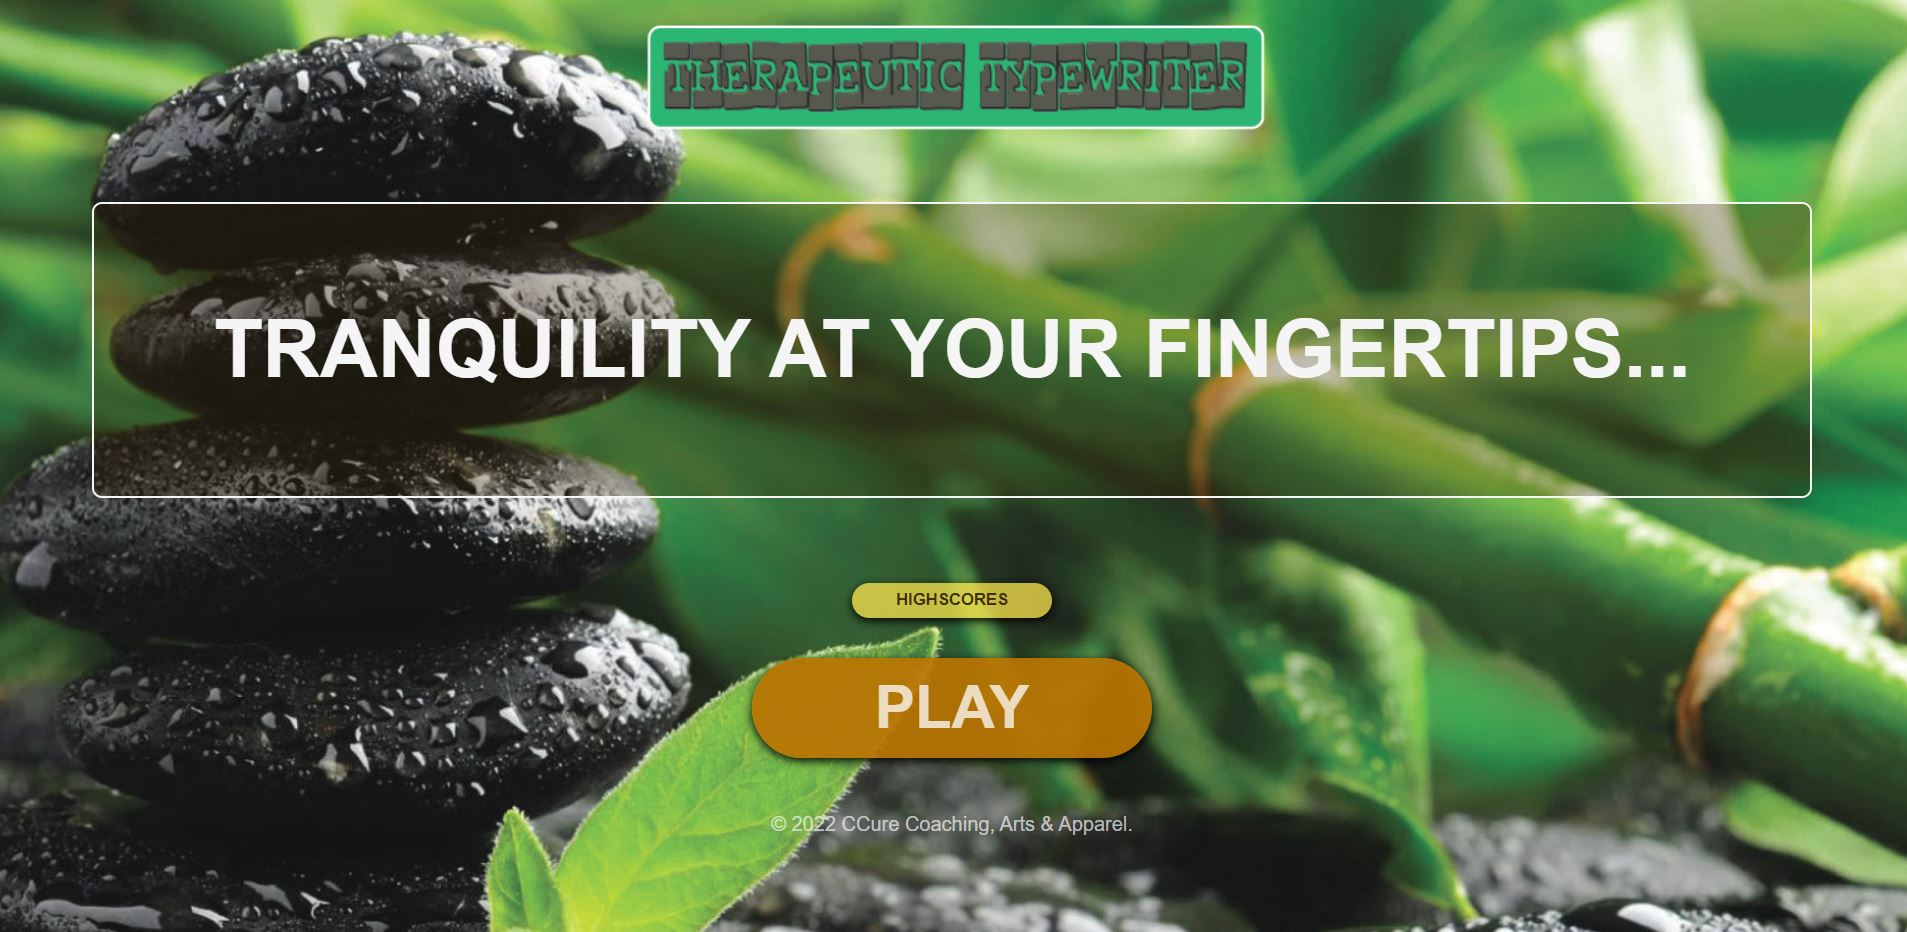
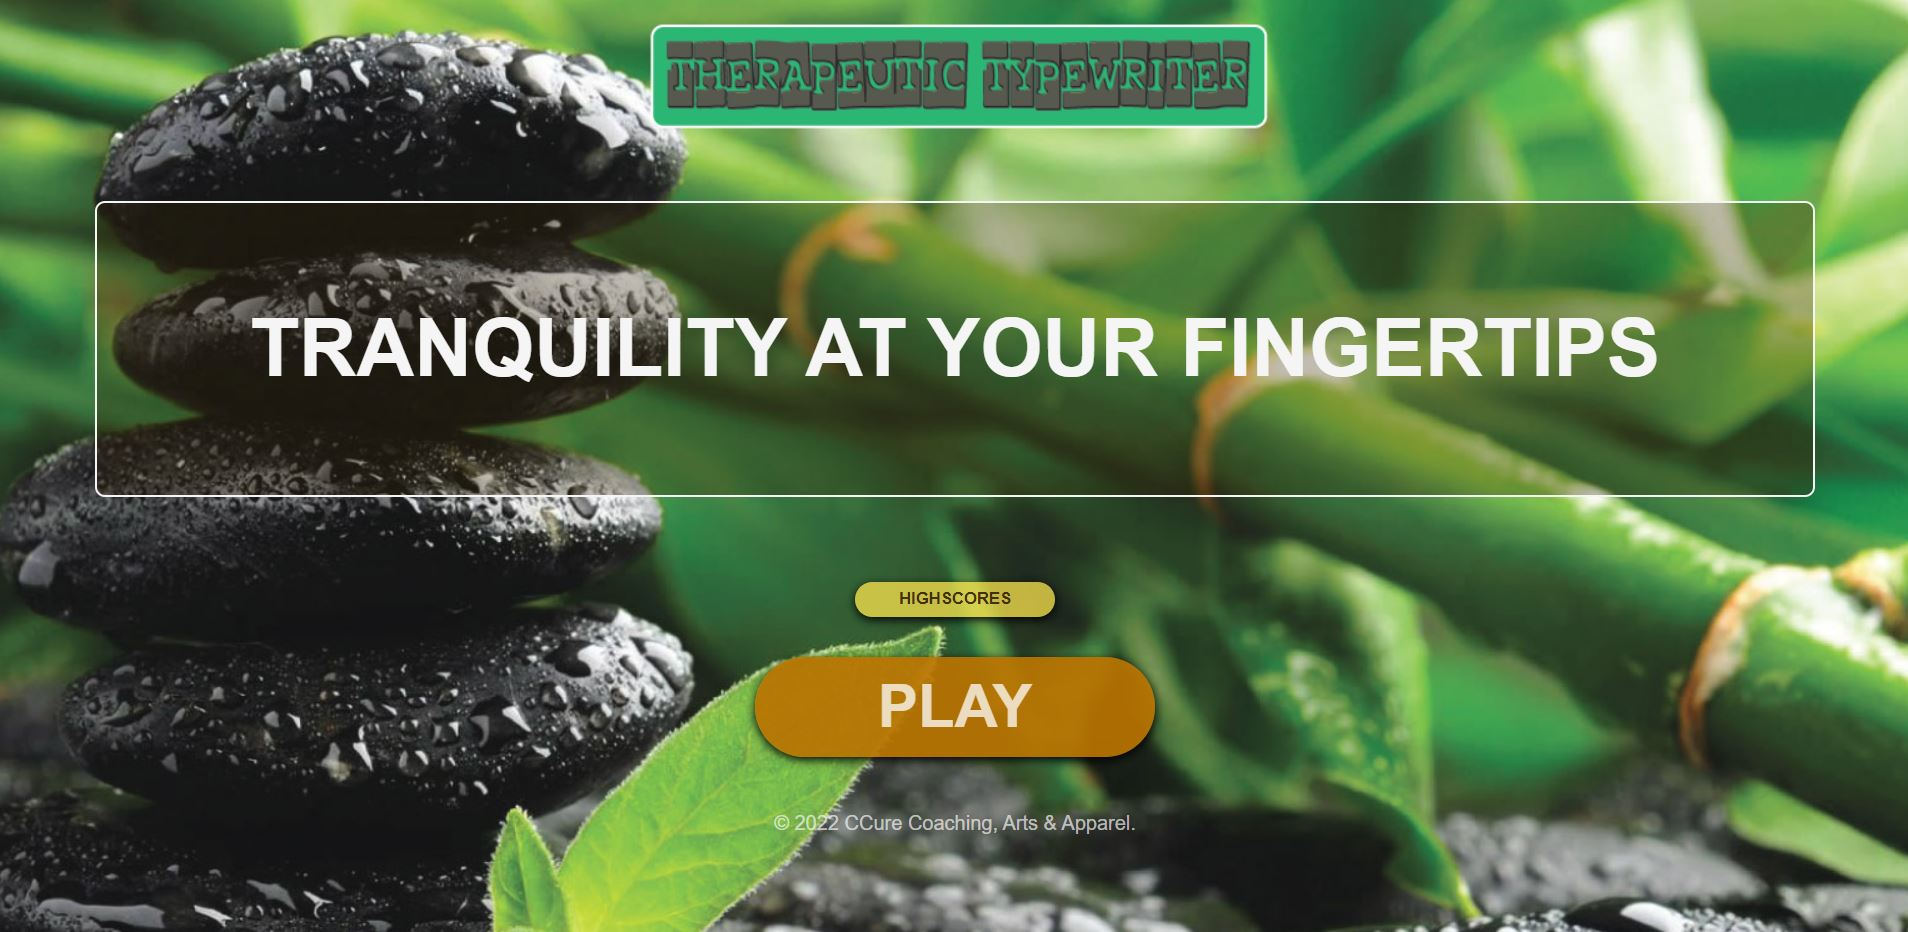
Updated homescreen and screenshot

diff --git a/client/src/homescreen.html b/client/src/homescreen.html
@@ -18,7 +18,7 @@
             <!-- link to highscores page -->
         </div>
         
-        <h2 class="instructions">Tranquility at your fingertips...</h2>
+        <h2 class="instructions">Tranquility at your fingertips</h2>
         
         <div class="home-links">
             <a class="link-btn" href="./highsccore.html"><button class="highscore2-btn">HIGHSCORES</button></a>
